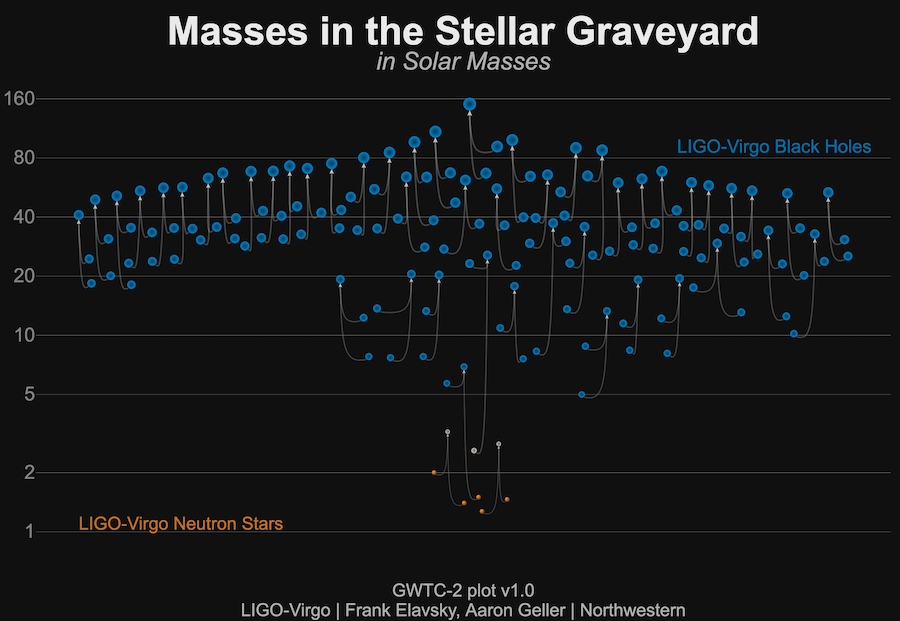
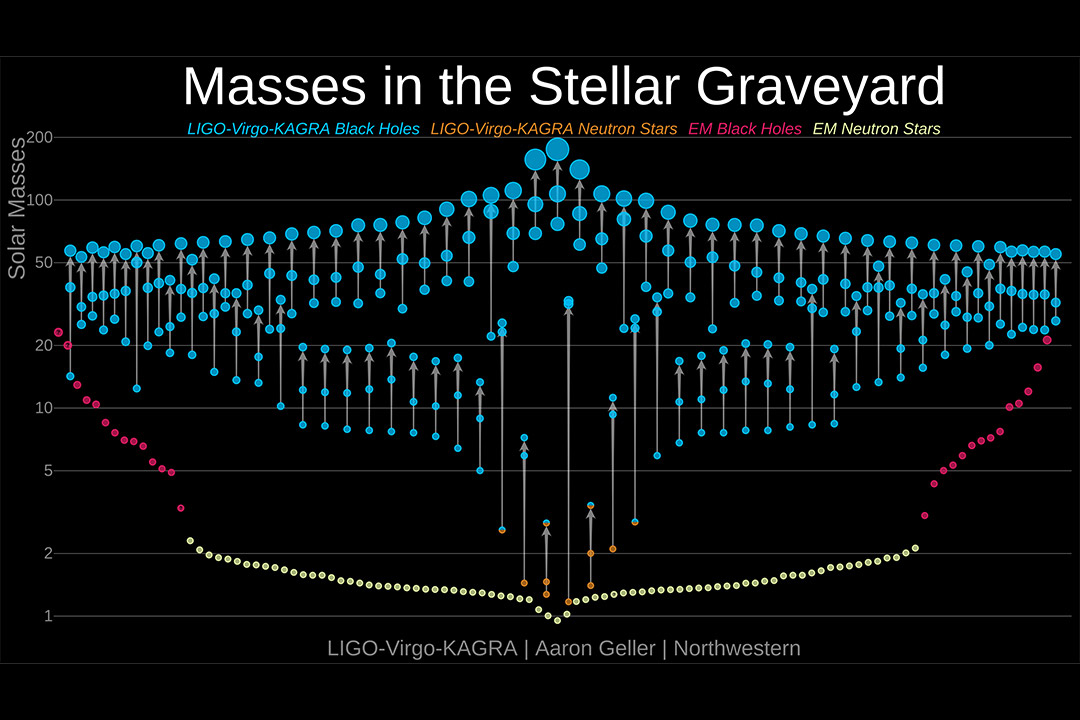
Update GW Overview

Changed region(s): [[0.0, 0.0, 0.9956, 1.0], [0.0933, 0.7955, 0.4667, 0.8567], [0.0311, 0.6119, 0.0622, 0.6731]]

diff --git a/resume.html b/resume.html
@@ -47,7 +47,7 @@
                                     <a class="image featured">
                                         <figure>
                                         <img src="images/stellargraveyard.png" style="width:100%"/>
-                                        <figcaption><center>The population of the stellar graveyard in GWTC-2.</center></figcaption>
+                                        <figcaption><center>The population of the stellar graveyard in GWTC-3.</center></figcaption>
                                         </figure>
                                     </a>
                             </div>

diff --git a/gw-overview.html b/gw-overview.html
@@ -21,7 +21,7 @@
 					<!-- Inner -->
 						<div class="inner">
 							<header>
-								<h1>Gravitational Wave Overview</a></h1>
+								<h1>An Overview of Gravitational Waves</a></h1>
 							</header>
 						</div>
 
